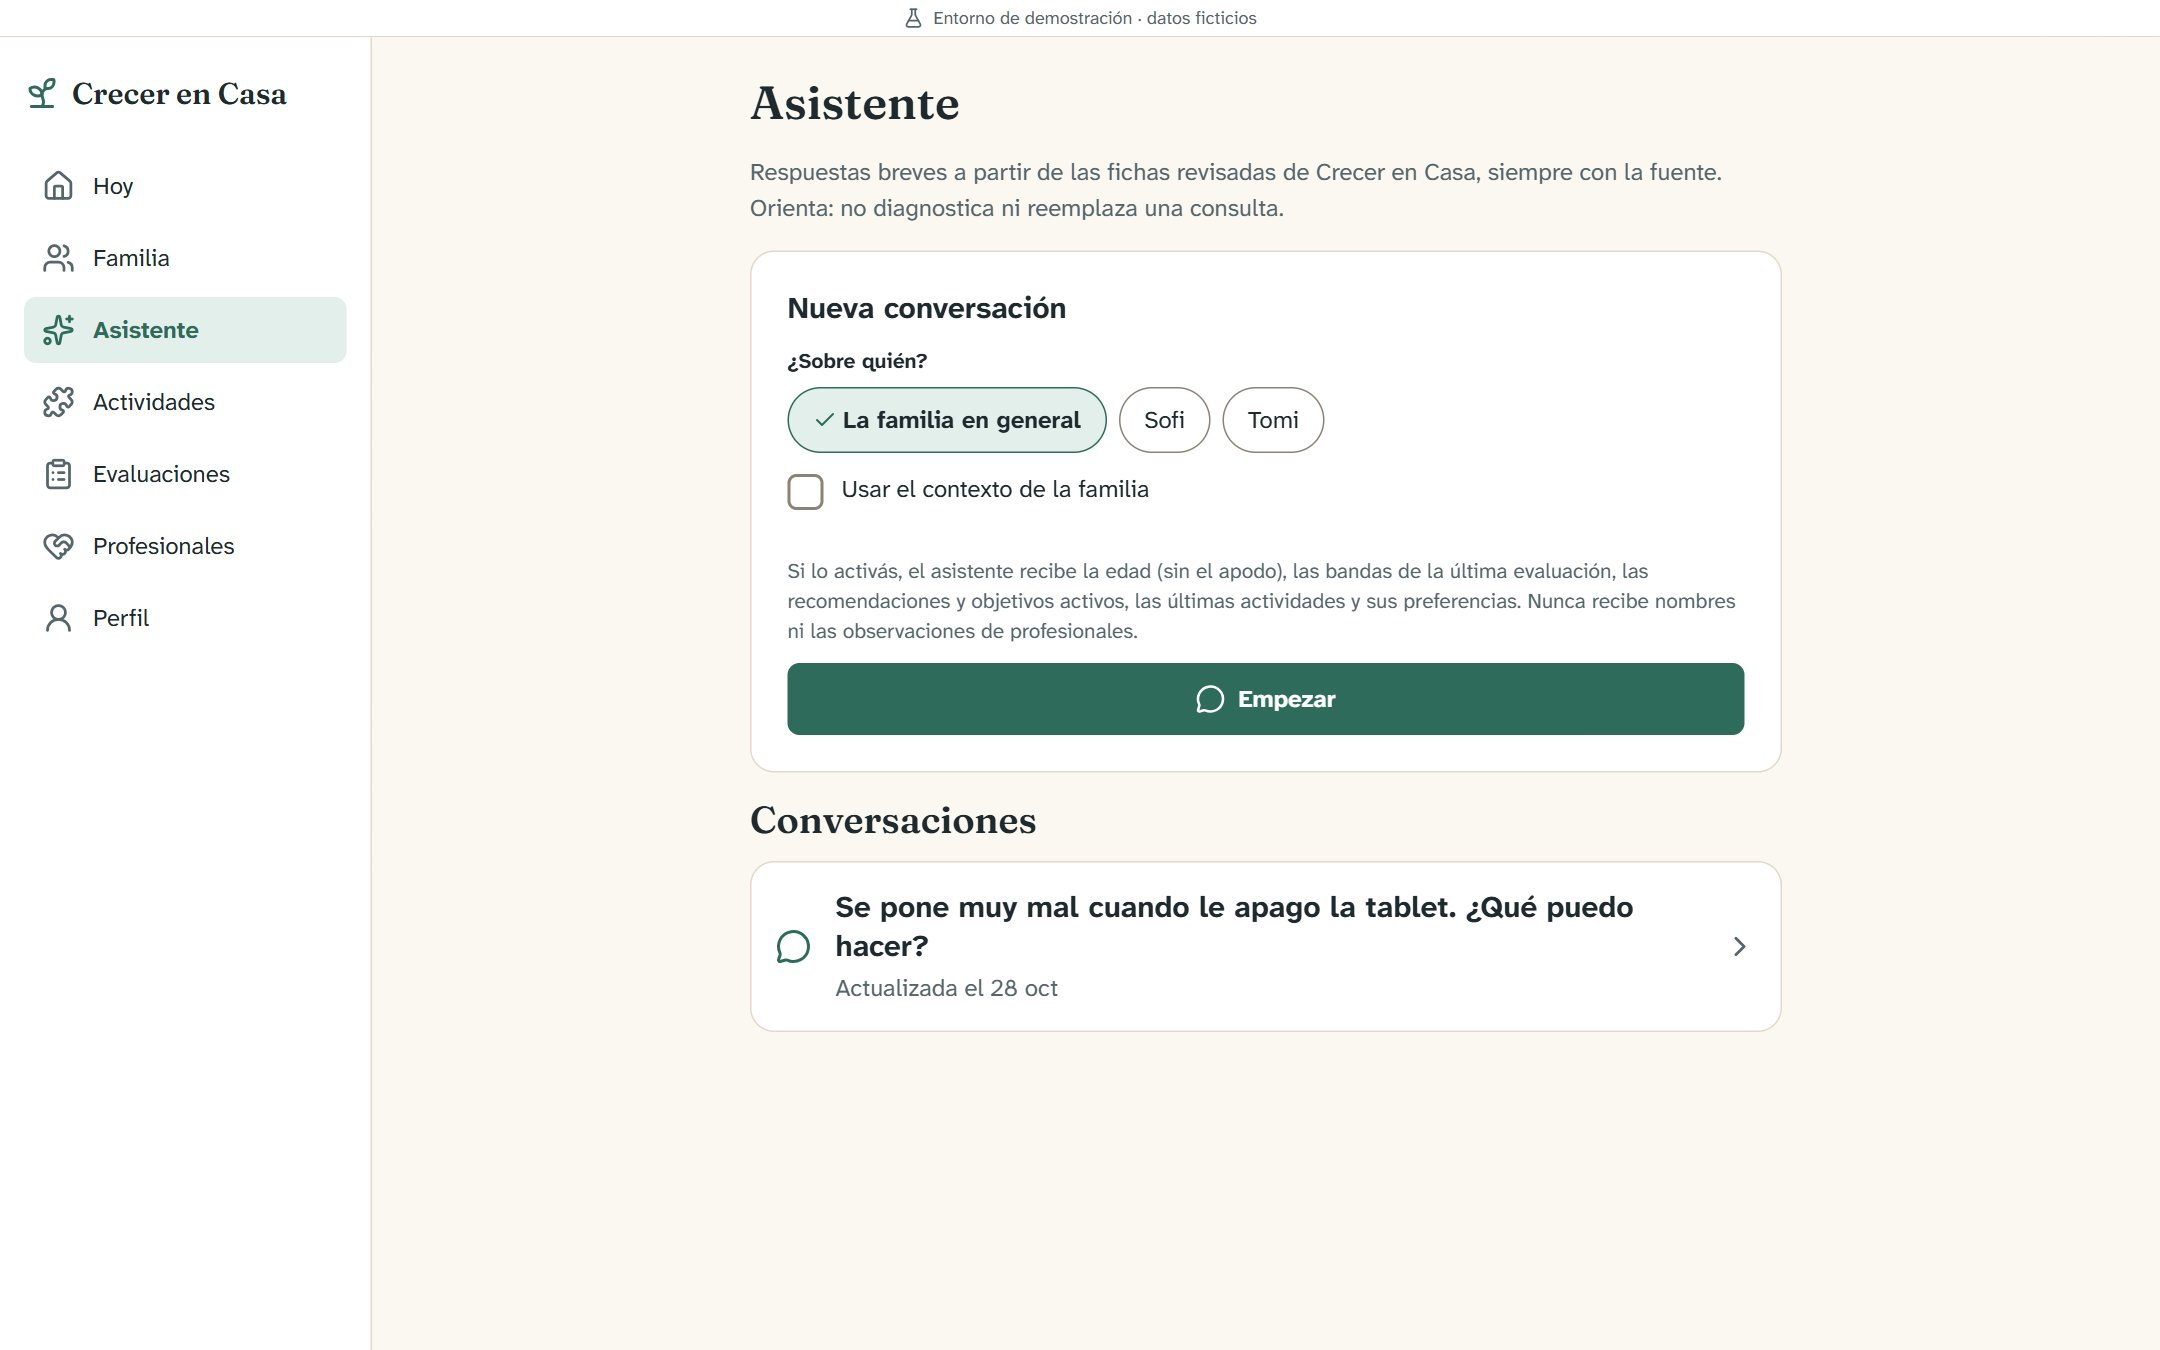
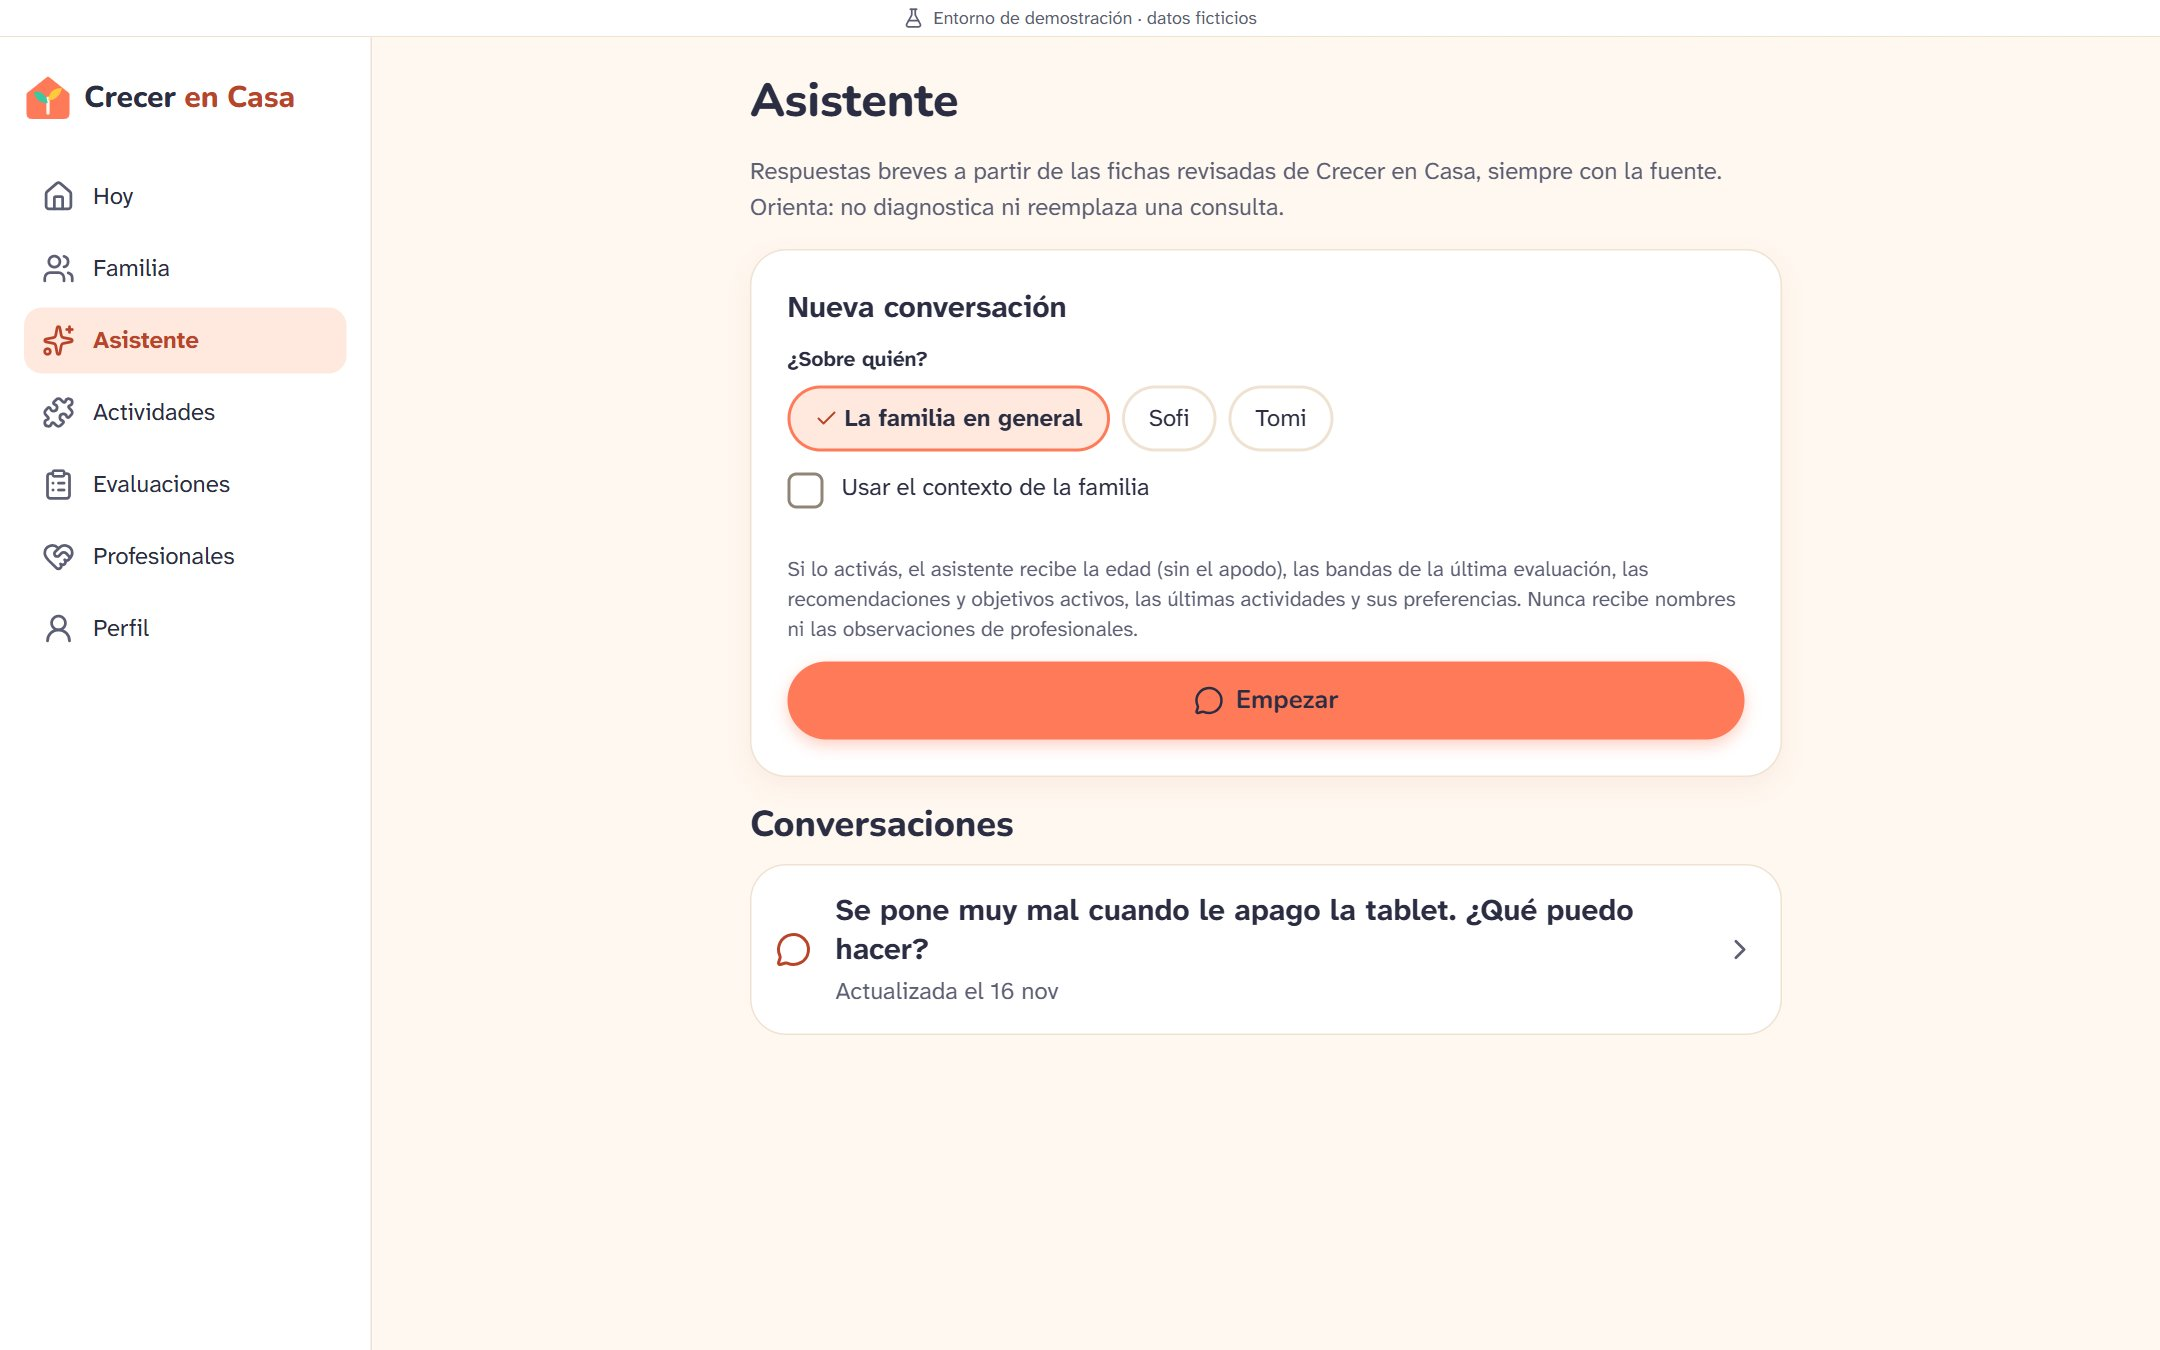
docs(demo): capturas con el rediseño
Tomadas con pnpm demo:screens contra la demo publicada, después de demo:reset. Suma Pausa para
vos, perfil, crear cuenta, ingresar y el chequeo de sueño (pregunta y resultado). demo:screens:
el caso de Sofi es de la familia García y SCREENS_ONLY repite solo algunas carpetas.

diff --git a/docs/demo/capturas/README.md b/docs/demo/capturas/README.md
@@ -1,17 +1,19 @@
 # Capturas de la demo
 
-Pantallas del entorno de demostración (`crecer-demo.vercel.app`, datos **ficticios**), tomadas el
-28/10/2026 para la presentación y el video de Expotec. Computadora: 1440 × 900 a 1,5× (2160 × 1350).
-Celular: 390 × 844 a 3× (1170 × 2532).
+Pantallas del entorno de demostración (`crecer-demo.vercel.app`, datos **ficticios**), con el
+rediseño de noviembre de 2026 (ADR-035). Se sacan con `pnpm demo:screens` después de un
+`pnpm demo:reset` (docs/setup/DEMO.md). Computadora: 1440 × 900 a 1,5× (2160 × 1350). Celular:
+390 × 844 a 3× (1170 × 2532).
 
-| Carpeta   | Quién                             | Qué muestra                                                                                                                                      |
-| --------- | --------------------------------- | ------------------------------------------------------------------------------------------------------------------------------------------------ |
-| `publico` | Sin cuenta                        | Inicio, etapa de 3 a 5 años, ficha C, catálogo de actividades, una actividad y el directorio de profesionales                                    |
-| `laura`   | Laura García (familia)            | Hoy, plan de la semana, familia, evaluaciones, resultado e historial de Tomi, asistente, conversación, profesionales, acompañamiento y objetivos |
-| `paula`   | Lic. Paula Ríos (profesional)     | Sus casos (familias García y Pereyra por separado) y el resumen de Sofi                                                                          |
-| `admin`   | Administración (`platform_admin`) | El pedido de verificación en dos pasos, verificaciones, usuarios, contenidos, auditoría, uso de la IA y configuración                            |
-| `movil`   | Laura, en el celular              | Hoy, la conversación con el asistente y el historial de Tomi                                                                                     |
+| Carpeta   | Quién                             | Qué muestra                                                                                                                                              |
+| --------- | --------------------------------- | -------------------------------------------------------------------------------------------------------------------------------------------------------- |
+| `publico` | Sin cuenta                        | Inicio, etapa de 3 a 5 años, ficha C, catálogo de actividades, directorio, crear cuenta e ingresar                                                       |
+| `laura`   | Laura García (familia)            | Hoy, plan de la semana, familia, evaluaciones, resultado e historial de Tomi, asistente, conversación, profesionales, objetivos, Pausa para vos y perfil |
+| `paula`   | Lic. Paula Ríos (profesional)     | Sus casos y el resumen de Sofi                                                                                                                           |
+| `movil`   | Laura, en el celular              | Hoy, la conversación con el asistente, el historial de Tomi, una pregunta y el resultado del chequeo de sueño, y Pausa para vos                          |
+| `admin`   | Administración (`platform_admin`) | Del 28/10/2026, con el diseño anterior: la administración pide verificación en dos pasos y se captura a mano                                             |
 
+- `laura/10-acompanamiento-rios` también es del 28/10 (diseño anterior).
 - `admin/03-verificaciones` sale vacía a propósito: `platform_admin` no verifica matrículas. La cola con
   Ana Benítez la ve la cuenta `verificador`.
 - Al abrir el resumen de Sofi como la Lic. Ríos quedó registrado el acceso: por eso
